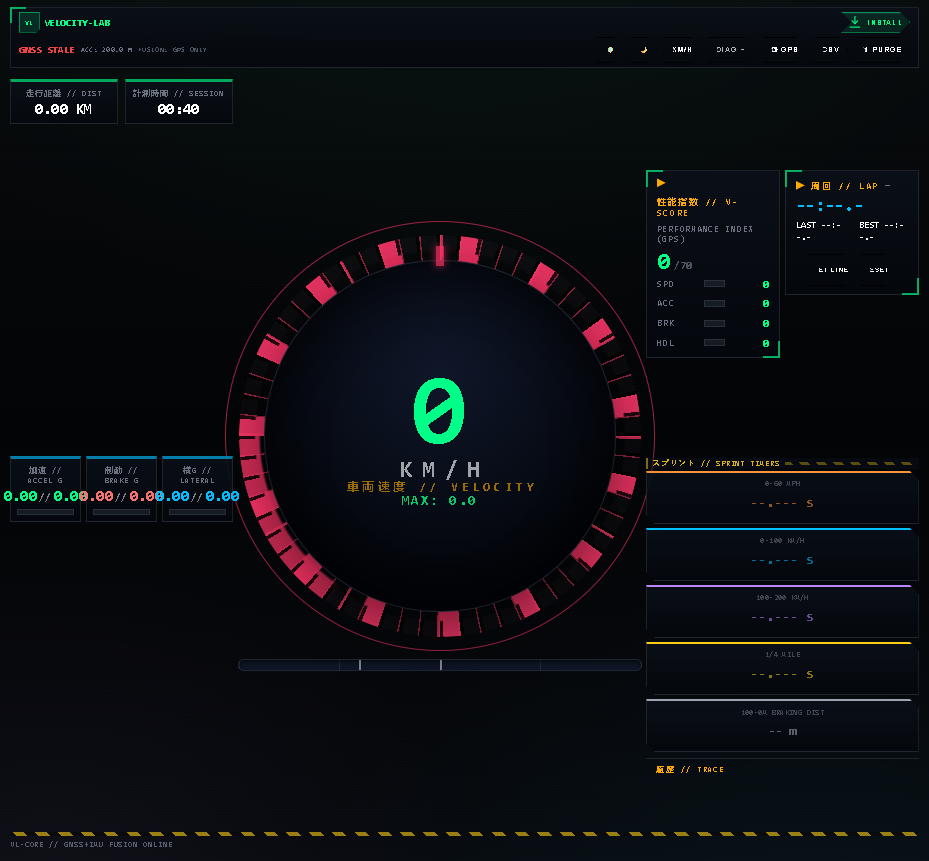
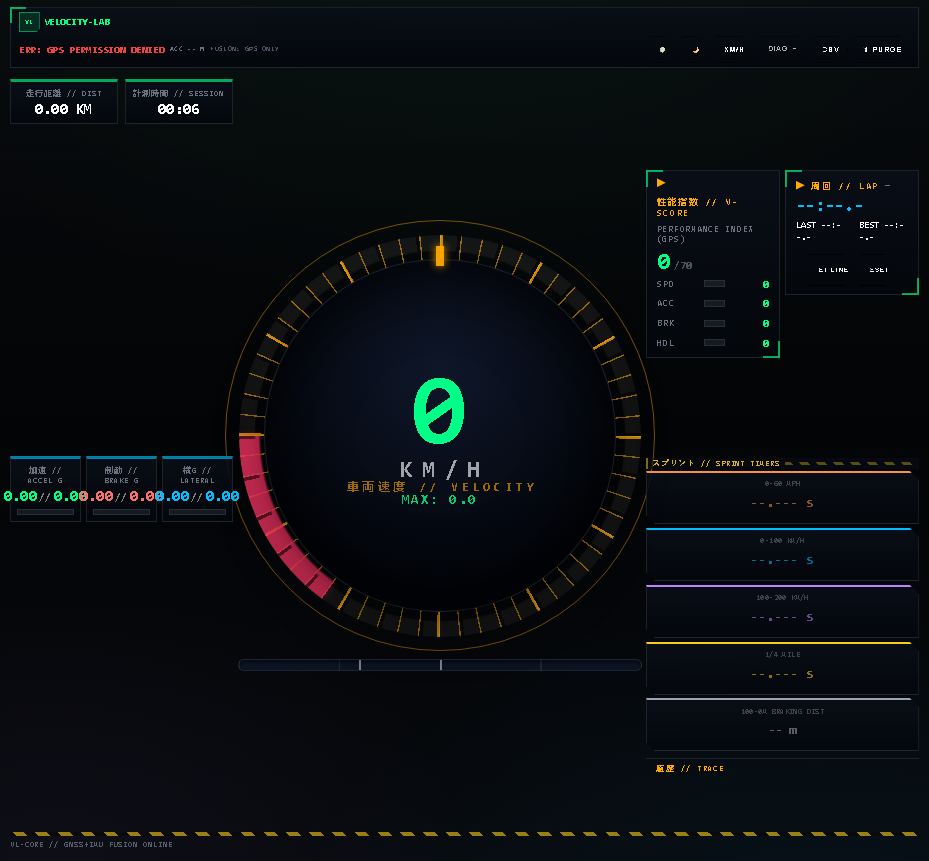
Velocity-Lab PWA Update: 2026-09-18_232618

diff --git a/index.html b/index.html
@@ -544,7 +544,14 @@
         /* Gauge sized from the uniform dial: 273px base / 292px large at 390×844.
            px-base × dial stays linear (rem would double-count via root). */
         .gauge-wrap { --gauge: calc(273px * var(--s-gauge)); }
-        .speed-gauge { transition: width 0.7s cubic-bezier(0.4, 0, 0.2, 1), font-size 0.7s cubic-bezier(0.4, 0, 0.2, 1); }
+        /* Gauge tracks --ui instantly (transition:none): .speed-gauge is the
+           dominant measured box in updateScale — a width/font-size transition
+           leaves it mid-flight for 0.7 s after every --ui write, so settle
+           passes sample interpolated sizes, solve exact~=cur, and freeze
+           --ui wherever the flight was sampled (permanent side margins after
+           any resize/orientation flip). Boot motion stays on
+           opacity/transform/filter only (see boot block above). */
+        .speed-gauge { transition: none; }
         .gauge-wrap.large .speed-gauge { --gauge: calc(292px * var(--s-gauge)); }
 
         /* Ring signal states (class-synced per frame with the GNSS banner):
@@ -4269,6 +4276,21 @@ let lastRenderTime  = performance.now();
             let lastUiStr = '';
             let lastSideBySide = false;
             let resizeRaf = null;
+            // Trailing settle train: the leading resize/orientation solve can
+            // measure mid-flip (stale media-query grid, settling reflow) and
+            // a single transient over-measurement used to pin --ui low with
+            // nothing scheduled to ever re-run (shrink-only could never undo
+            // it). A coalesced train re-solves on settled layout; exact-fit
+            // both directions heals in one settled step (or no-ops when
+            // already exact, via the lastUiStr guard). Event-driven only —
+            // no polling, no steady-state cost.
+            let settleTimers = [];
+            function trailingSettlePass() {
+                try { for (const t of settleTimers) clearTimeout(t); } catch (eC) {}
+                settleTimers = [150, 500, 1500].map(function(ms) {
+                    return setTimeout(function(){ try { updateScale(true, false); } catch (eS) {} }, ms);
+                });
+            }
             // True content height = NATURAL leaf-height SUM + real gaps + pad,
             // guarded by min() with the legacy box span. scrollHeight can't be
             // used: it floors at viewport height (hides undershoot) and misses
@@ -4427,10 +4449,10 @@ let lastRenderTime  = performance.now();
                 const cur = parseFloat(getComputedStyle(document.documentElement).getPropertyValue('--ui')) || scale || 1;
                 const contentH = measureContentH();
                 // Exact solve both directions so free space is absorbed by
-                // growing, never gaps — but grow ONLY on settled layout
-                // (boot exact + orientation passes). Every pass shrinks on
-                // overflow (never allowGrow-gated): a missing shrink is an
-                // overlapping, overflowing HUD.
+                // growing, never gaps. Every pass shrinks on overflow (a
+                // missing shrink is an overlapping, overflowing HUD) and
+                // grows back up to the exact fit when content fits (a
+                // transient over-measurement must be undoable — see below).
                 // Cockpit (side-by-side columns) is EXEMPT from box-measured
                 // fit: its boxes stretch to fill by construction, so any
                 // measured solve ratchets (each shrink re-stretches, ad
@@ -4439,16 +4461,20 @@ let lastRenderTime  = performance.now();
                 // vScroll=0 for ui 0.2–2.5), so size by width-driven min-ratio
                 // (phone-consistent proportions) and skip the content branch.
                 if (!lastSideBySide && cur > 0 && isFinite(contentH) && contentH > 0) {
-                    if (contentH > vh || allowGrow) {
-                        scale = Math.min(scale, cur * (vh - 20) / contentH);
-                    }
-                    // Shrink-only passes must never exceed the live scale:
-                    // scale re-seeds to viewport min() every pass, so without
-                    // this clamp a fitting pass snaps --ui back up to min()
-                    // and leaves the HUD overflowing with no passes left.
-                    if (!allowGrow) {
-                        scale = Math.min(scale, cur);
-                    }
+                    // Exact solve BOTH directions (shrink when overflowing,
+                    // grow back when fitting). Shrink-only could never undo a
+                    // single transient over-measurement (orientation-flip
+                    // settling, late font swap): --ui ratcheted down for the
+                    // rest of the session and the shell sat in dead side
+                    // margins (e.g. 390px wide stuck at ui 0.70 = ~45px void
+                    // each side). Growing only up to the exact fit cannot
+                    // overflow (lands at ~= vh-20 by construction, inside the
+                    // 20px headroom for non-scaling px bits); any residual
+                    // overflow just shrinks back on its ResizeObserver
+                    // wakeup. Convergence is safe: passes are event-driven,
+                    // writes are lastUiStr-guarded, and the fixed point
+                    // (contentH ~= vh-20) recomputes to itself.
+                    scale = Math.min(scale, cur * (vh - 20) / contentH);
                 }
                 // Fit-always: no 0.65-style legibility floor — any screen fits
                 // with zero scroll. 0.2 is an anti-degenerate guard only.
@@ -4466,6 +4492,7 @@ let lastRenderTime  = performance.now();
             function debouncedUpdateScale() {
                 if (resizeRaf) cancelAnimationFrame(resizeRaf);
                 resizeRaf = requestAnimationFrame(function(){ updateScale(false, false); });
+                trailingSettlePass();
             }
             // Final gauge geometry BEFORE the boot measure: .large is a pure
             // size switch (no transition on --gauge), so applying it here —
@@ -4474,14 +4501,14 @@ let lastRenderTime  = performance.now();
             // (Applying it on window.load instead left every boot measuring
             // small, then growing mid-boot: overflow until a later pass.)
             try { const gw0 = document.querySelector('.gauge-wrap'); if (gw0) gw0.classList.add('large'); } catch (eL) {}
-            // Boot runs EXACT (grow allowed) synchronously during parse —
-            // usually before first paint (progressive rendering can still
-            // paint mid-parse; the reveal gate above covers that race).
-            // Settle passes are SHRINK-ONLY: boot already measured final
-            // geometry (.large applied just above), so post-paint scale is
-            // monotonically non-increasing — later passes can only fix
-            // late-font overflow, never grow. Late fonts that shrink content
-            // leave harmless slack, never scroll.
+            // Boot runs EXACT synchronously during parse — usually before
+            // first paint (progressive rendering can still paint mid-parse;
+            // the reveal gate above covers that race). Settle passes re-solve
+            // exact both directions: boot already measured final geometry
+            // (.large applied just above), so post-paint passes only move on
+            // real change — later passes fix late-font overflow by shrinking
+            // and heal transient over-shrink by growing back to the fit.
+            // Late fonts that shrink content gain presence, never scroll.
             // Backstop FIRST: if the solve below ever threw, both the reveal
             // and this timer would be skipped and the shell would stay hidden
             // forever. Registration itself cannot throw.
@@ -4489,7 +4516,7 @@ let lastRenderTime  = performance.now();
             updateScale(true, true);
             try { document.documentElement.classList.add('scaled'); } catch (eS) {}
             window.addEventListener('resize', debouncedUpdateScale, { passive: true });
-            window.addEventListener('orientationchange', () => setTimeout(function(){ updateScale(true, true); }, 100));
+            window.addEventListener('orientationchange', () => { setTimeout(function(){ updateScale(true, true); }, 100); trailingSettlePass(); });
             setTimeout(function(){ updateScale(true, false); }, 900);
             if (document.fonts && document.fonts.ready) {
                 try { document.fonts.ready.then(function(){ updateScale(true, false); }); } catch (e5) {}
@@ -4498,9 +4525,11 @@ let lastRenderTime  = performance.now();
             // Self-healing fit: boot passes can't cover every late geometry
             // change (webfont swap after a cache-busting purge, URL-bar
             // show/hide on pull-to-refresh, dynamic content). Any of those
-            // pushing content past the viewport is shrunk back next frame.
-            // Strictly shrink-only + lastUiStr-guarded: monotonic, no loops,
-            // no CLS growth, battery-free (event-driven, zero polling).
+            // pushing content past the viewport is shrunk back next frame;
+            // transient over-shrinks grow back on the next settled pass.
+            // Exact-fit + lastUiStr-guarded: converges, no loops, no polling
+            // (event-driven, battery-free). RO width-feedback self-pumps to
+            // the fixed point then goes quiet (recomputed uiStr identical).
             let fitRaf = 0;
             function requestFit() {
                 if (fitRaf) return;

diff --git a/tests/layout.test.js b/tests/layout.test.js
@@ -62,6 +62,19 @@ if (!/orientation:\s*landscape[^}]*min-width:\s*600px/.test(text) && !/min-width
   ok = fail("index.html: landscape cockpit block missing (wide screens fall back to narrow column)") && false;
 } else pass("landscape cockpit present");
 
+// The gauge is the dominant updateScale measured box: a width transition on
+// it leaves settle passes sampling mid-flight sizes, which freezes --ui low
+// (permanent side margins after any resize/orientation flip). Only
+// transition:none (or no transition at all) is allowed there.
+const gaugeBlocks = style.match(/\.speed-gauge\s*\{[^}]*\}/g) || [];
+let gaugeTransitionBad = false;
+for (const b of gaugeBlocks) {
+  if (/transition\s*:[^;]*width/.test(b) && !/transition\s*:\s*none/.test(b)) gaugeTransitionBad = true;
+}
+if (gaugeTransitionBad) {
+  ok = fail("index.html: .speed-gauge must not transition width (measured box must track --ui instantly)") && false;
+} else pass("gauge tracks --ui instantly (no width transition)");
+
 // --- Live checks (optional) ---
 let playwright = null;
 try {
@@ -150,6 +163,27 @@ async function live() {
       }
       if (m.vScroll > 40) console.log("NOTE " + tag + ": vScroll " + m.vScroll + "px (floor/readability tradeoff)");
       await ctx.close();
+    }
+    // Resize recovery: landscape -> portrait must converge back to the
+    // fresh-load --ui, not pin low with side margins. (A width transition on
+    // the measured gauge box used to freeze mid-flight samples into --ui.)
+    {
+      const ctx2 = await browser.newContext({ viewport: { width: 929, height: 861 } });
+      const page2 = await ctx2.newPage();
+      await page2.goto("http://127.0.0.1:" + port + "/index.html", { waitUntil: "load", timeout: 30000 });
+      await page2.waitForTimeout(3500);
+      await page2.setViewportSize({ width: 390, height: 844 });
+      await page2.waitForTimeout(2600);
+      const r = await page2.evaluate(() => ({
+        ui: parseFloat(getComputedStyle(document.documentElement).getPropertyValue("--ui")) || 0,
+        vScroll: document.documentElement.scrollHeight - window.innerHeight,
+        hOver: document.documentElement.scrollWidth - window.innerWidth,
+        margin: (window.innerWidth - document.querySelector(".dashboard-shell").getBoundingClientRect().width) / 2
+      }));
+      if (!(r.ui >= 0.80 && r.vScroll <= 0 && r.hOver <= 0 && r.margin <= 20)) {
+        ok = fail("resize 929x861->390x844: ui " + r.ui.toFixed(4) + " margin " + r.margin.toFixed(1) + "px (must recover to ~0.88, margins <= 20px)") && false;
+      } else pass("resize 929x861->390x844: ui " + r.ui.toFixed(4) + " margin " + r.margin.toFixed(1) + "px");
+      await ctx2.close();
     }
   } finally {
     await browser.close();
